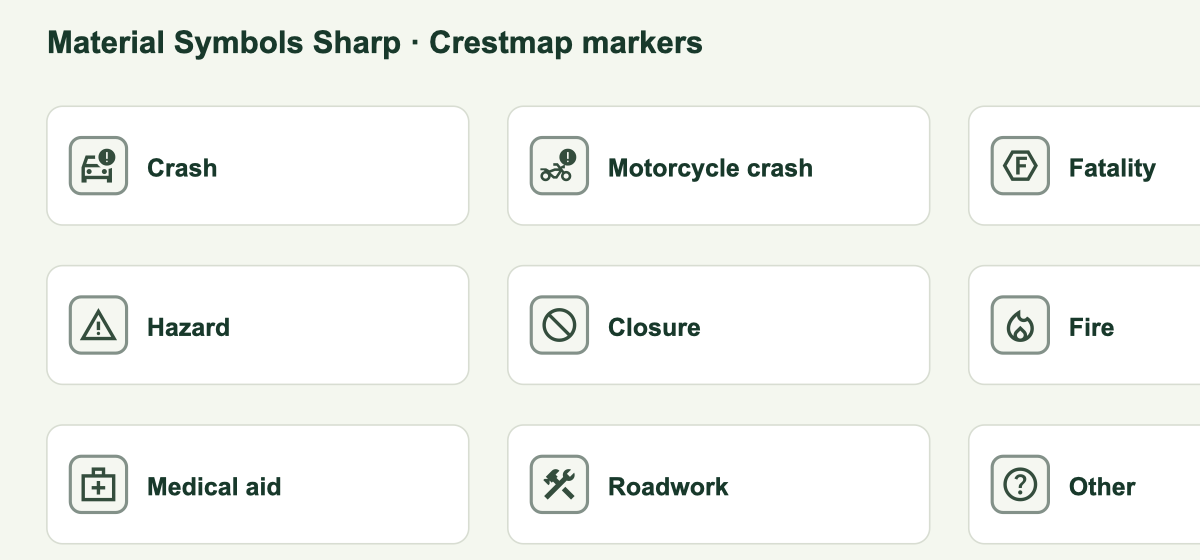
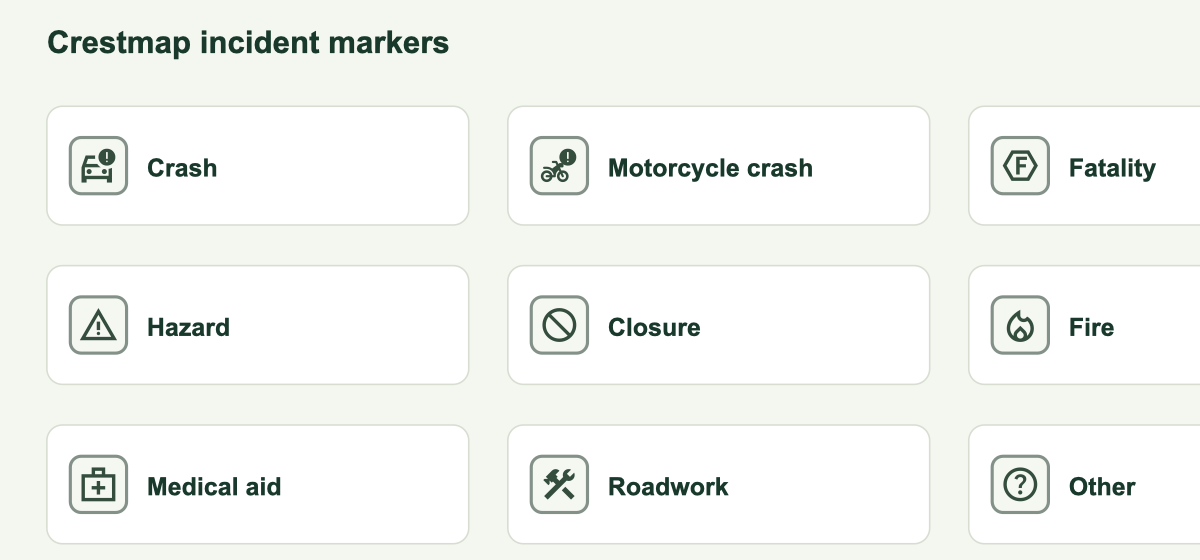
Use clearer motorcycle crash silhouette

Changed region(s): [[0.0308, 0.0304, 0.5858, 0.1214], [0.4317, 0.3036, 0.4933, 0.3339]]

diff --git a/incident_marker_icons.py b/incident_marker_icons.py
@@ -1,13 +1,12 @@
-"""Crestmap incident glyphs from Google Material Symbols Sharp.
+"""Crestmap incident glyphs from Material Symbols Sharp and Font Awesome.
 
-Source: https://fonts.google.com/icons
-License: Apache 2.0 (see licenses/material-symbols/LICENSE).
-The fatality F is a Crestmap addition to the Material hexagon.
+The motorcycle silhouette is Font Awesome Free; the other glyphs use Material
+Symbols Sharp. See licenses/ for attribution and license details.
 """
 
-MATERIAL_SYMBOL_NAMES = {
+ICON_SOURCE_NAMES = {
     "collision": "car_crash",
-    "motorcycle": "two_wheeler",
+    "motorcycle": "Font Awesome Free motorcycle",
     "fatality": "hexagon",
     "hazard": "warning",
     "closure": "block",
@@ -19,7 +18,7 @@ MATERIAL_SYMBOL_NAMES = {
 
 _PATHS = {
     'collision': 'M160-240v-200 200ZM80-80v-360l98-280h225q-3 20-3 40t3 40H234l-42 120h259q17 24 38 44.5t47 35.5H160v200h560v-163q21-3 41-9t39-15v347H680v-80H200v80H80Zm540-200q25 0 42.5-17.5T680-340q0-25-17.5-42.5T620-400q-25 0-42.5 17.5T560-340q0 25 17.5 42.5T620-280Zm-360 0q25 0 42.5-17.5T320-340q0-25-17.5-42.5T260-400q-25 0-42.5 17.5T200-340q0 25 17.5 42.5T260-280Zm420-200q-83 0-141.5-58.5T480-680q0-82 58-141t142-59q83 0 141.5 58.5T880-680q0 83-58.5 141.5T680-480Zm-20-160h40v-160h-40v160Zm20 80q8 0 14-6t6-14q0-8-6-14t-14-6q-8 0-14 6t-6 14q0 8 6 14t14 6Z',
-    'motorcycle': 'M160-200q-66 0-113-47T0-360q0-57 36.5-101t93.5-55l-28-24H0v-60h180l100 60 160-60h126l-62-80H400v-80h142l84 108 134-68v120h-92l70 92q15-6 30.5-9t31.5-3q66 0 113 47t47 113q0 66-47 113t-113 47q-66 0-113-47t-47-113q0-27 9.5-52.5T676-460l-20-24-136 204H400l-80-70q-5 63-51 106.5T160-200Zm0-80q33 0 56.5-23.5T240-360q0-33-23.5-56.5T160-440q-33 0-56.5 23.5T80-360q0 33 23.5 56.5T160-280Zm294-240-144 54 144-54h130-130Zm346 240q33 0 56.5-23.5T880-360q0-33-23.5-56.5T800-440q-33 0-56.5 23.5T720-360q0 33 23.5 56.5T800-280Zm-322-80 106-160H454l-144 54 120 106h48Z',
+    'motorcycle': 'M280 16c-13.3 0-24 10.7-24 24s10.7 24 24 24l56.6 0 22.5 48.7-95.1 71.3c-33.4-25.1-75-40-120-40l-56 0c-13.3 0-24 10.7-24 24s10.7 24 24 24l56 0c78.5 0 143.2 59.6 151.2 136l-25.4 0c-11.2-59.2-63.3-104-125.8-104-70.7 0-128 57.3-128 128S73.3 480 144 480c62.5 0 114.5-44.8 125.8-104l50.2 0c13.3 0 24-10.7 24-24l0-22.5c0-45.1 25.7-85.4 65.5-107.7l12.1 26.1c-32.4 23.2-53.5 61.2-53.5 104.1 0 70.7 57.3 128 128 128s128-57.3 128-128-57.3-128-128-128c-10.7 0-21 1.3-30.9 3.8L433.8 160 488 160c13.3 0 24-10.7 24-24l0-48c0-13.3-10.7-24-24-24l-53.3 0c-6.9 0-13.7 2.2-19.2 6.4l-17.1 12.8-24.6-53.3C369.9 21.4 361.4 16 352 16l-72 0zM445.8 300.4l28.4 61.6c5.6 12 19.8 17.3 31.8 11.7s17.3-19.8 11.7-31.8l-28.5-61.6c2.2-.2 4.4-.3 6.7-.3 39.8 0 72 32.2 72 72s-32.2 72-72 72-72-32.2-72-72c0-20.2 8.3-38.5 21.8-51.6zM144 424c-39.8 0-72-32.2-72-72s32.2-72 72-72c31.3 0 58 20 67.9 48L144 328c-13.3 0-24 10.7-24 24s10.7 24 24 24l67.9 0c-9.9 28-36.6 48-67.9 48z',
     'hazard': 'm40-120 440-760 440 760H40Zm138-80h604L480-720 178-200Zm330.5-51.5Q520-263 520-280t-11.5-28.5Q497-320 480-320t-28.5 11.5Q440-297 440-280t11.5 28.5Q463-240 480-240t28.5-11.5ZM440-360h80v-200h-80v200Zm40-100Z',
     'closure': 'M324-111.5Q251-143 197-197t-85.5-127Q80-397 80-480t31.5-156Q143-709 197-763t127-85.5Q397-880 480-880t156 31.5Q709-817 763-763t85.5 127Q880-563 880-480t-31.5 156Q817-251 763-197t-127 85.5Q563-80 480-80t-156-31.5ZM480-160q54 0 104-17.5t92-50.5L228-676q-33 42-50.5 92T160-480q0 134 93 227t227 93Zm252-124q33-42 50.5-92T800-480q0-134-93-227t-227-93q-54 0-104 17.5T284-732l448 448ZM480-480Z',
     'fire': 'M240-400q0 52 21 98.5t60 81.5q-1-5-1-9v-9q0-32 12-60t35-51l113-111 113 111q23 23 35 51t12 60v9q0 4-1 9 39-35 60-81.5t21-98.5q0-50-18.5-94.5T648-574q-20 13-42 19.5t-45 6.5q-62 0-107.5-41T401-690q-39 33-69 68.5t-50.5 72Q261-513 250.5-475T240-400Zm240 52-57 56q-11 11-17 25t-6 29q0 32 23.5 55t56.5 23q33 0 56.5-23t23.5-55q0-16-6-29.5T537-292l-57-56Zm0-492v132q0 34 23.5 57t57.5 23q18 0 33.5-7.5T622-658l18-22q74 42 117 117t43 163q0 134-93 227T480-80q-134 0-227-93t-93-227q0-129 86.5-245T480-840Z',
@@ -38,7 +37,7 @@ def incident_icon_svg(kind):
     if kind == "motorcycle":
         return (
             '<svg viewBox="0 -960 960 960" fill="currentColor" aria-hidden="true">'
-            f'<g transform="translate(32 40) scale(.76)"><path d="{path}"/></g>'
+            f'<g transform="translate(25 -610) scale(1.08)"><path d="{path}"/></g>'
             f'<path d="{_CRASH_BADGE_PATH}"/></svg>'
         )
     f_path = '<path d="M382-690h255v75H465v102h148v75H465v168h-83Z"/>' if kind == "fatality" else ""
@@ -48,4 +47,4 @@ def incident_icon_svg(kind):
     )
 
 
-INCIDENT_MARKER_SVGS = {kind: incident_icon_svg(kind) for kind in MATERIAL_SYMBOL_NAMES}
+INCIDENT_MARKER_SVGS = {kind: incident_icon_svg(kind) for kind in ICON_SOURCE_NAMES}

diff --git a/tests/test_generate_live_map.py b/tests/test_generate_live_map.py
@@ -21,7 +21,7 @@ from generate_live_map import (
     load_incidents,
 )
 from mile_markers import MILE_MARKERS
-from incident_marker_icons import INCIDENT_MARKER_SVGS, MATERIAL_SYMBOL_NAMES
+from incident_marker_icons import INCIDENT_MARKER_SVGS, ICON_SOURCE_NAMES
 from scrape_chp_traffic import (
     connect_database,
     insert_observation,
@@ -53,9 +53,9 @@ def incident_row(event_key, status, latest_observed_at, incident_no):
 
 
 def test_incident_icon_pack_has_valid_svg_for_each_map_category():
-    assert MATERIAL_SYMBOL_NAMES == {
+    assert ICON_SOURCE_NAMES == {
         "collision": "car_crash",
-        "motorcycle": "two_wheeler",
+        "motorcycle": "Font Awesome Free motorcycle",
         "fatality": "hexagon",
         "hazard": "warning",
         "closure": "block",
@@ -72,14 +72,15 @@ def test_incident_icon_pack_has_valid_svg_for_each_map_category():
         if kind == "motorcycle":
             bike = root.find("g")
             assert bike is not None
-            assert bike.attrib["transform"] == "translate(32 40) scale(.76)"
+            assert bike.attrib["transform"] == "translate(25 -610) scale(1.08)"
             transform = re.fullmatch(
                 r"translate\(([-\d.]+) ([-\d.]+)\) scale\(([-\d.]+)\)",
                 bike.attrib["transform"],
             )
             assert transform is not None
-            left, _, scale = map(float, transform.groups())
-            assert 0 < left and left + 960 * scale < 960
+            left, top, scale = map(float, transform.groups())
+            assert 0 < left and left + 640 * scale < 960
+            assert -960 < top and top + 512 * scale < 0
             assert len(bike.findall("path")) == 1
             assert len(root.findall("path")) == 1
             badge = root.find("path").attrib["d"]

diff --git a/CHANGELOG.md b/CHANGELOG.md
@@ -11,6 +11,13 @@ development eras and do not imply that every intermediate version number shipped
 
 ## Unreleased
 
+### 0.1.326 - 2026-10-22
+
+- Replace the thin motorcycle crash glyph with a fuller motorcycle silhouette
+  that reads clearly beside the car crash marker at map size. Keep the matching
+  alert badge and add the icon attribution. No schema migration or
+  reauthentication is required.
+
 ### 0.1.325 - 2026-10-22
 
 - Reposition and resize the motorcycle crash glyph so both wheels fit inside
